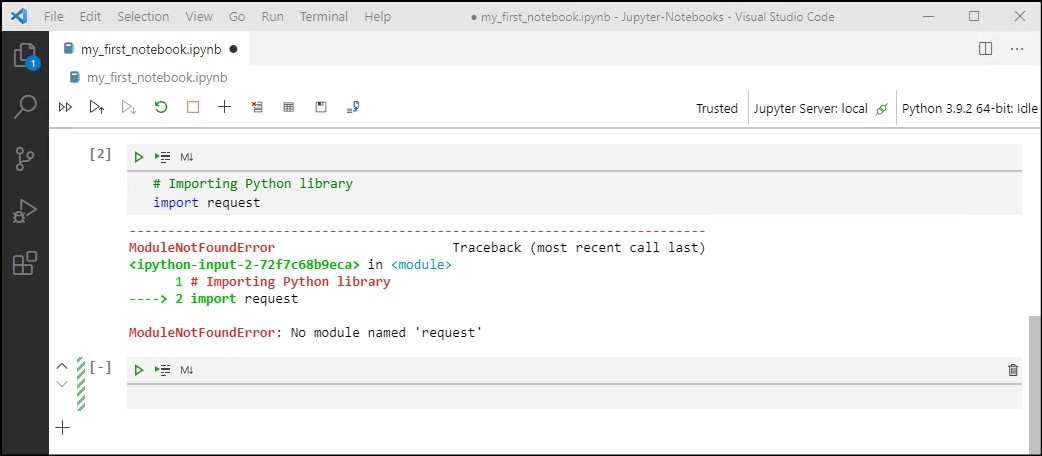
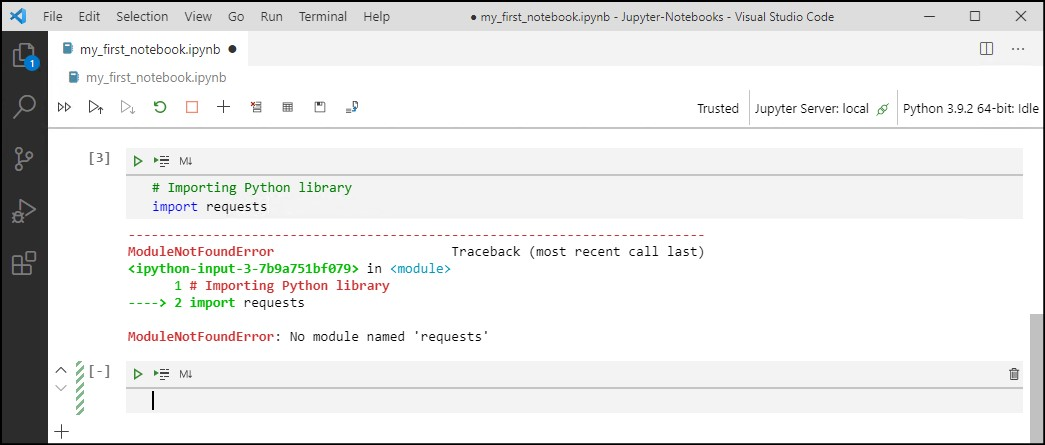
New Blog OTR and Prev Blogs Updates
- Installing Java
- Updates of images and inline code

diff --git a/docs/_posts/2020-12-04-installing_python_library_vscode.md b/docs/_posts/2020-12-04-installing_python_library_vscode.md
@@ -3,23 +3,24 @@ layout: post
 current: post
 cover:  assets/images/blog/2020-12-04_00_pip_cover.jpg
 navigation: True
-title: Installing a Python Library Using the Visual Studio Code Terminal - Windows
+title: Installing a Python Library in Visual Studio Code - Windows
 date: 2020-12-04 12:00:00
-tags: [vscode,python]
+tags: [jupyter-notebook,vscode,python]
 class: post-template
 subclass: 'post'
 author: jose
 ---
 
-In this quick blogpost, I will share the steps that you can follow in order to install a Python library using pip through the Visual Studio Code (VSCode) terminal on a Windows computer.
+In this quick blogpost, I will share the steps that you can follow in order to install a Python library using pip through either the **Terminal** or a **Jupyter Notebook** in Visual Studio Code (VSCode) on a Windows computer.
 
-## 0. Pre-requisites
+## Pre-requisites
 In order to complete the steps of this blogpost, you need to install the following in your windows computer:
 * **Visual Studio Code**: you can find the steps to install it [here](https://blog.openthreatresearch.com/installing_vscode_windows).
 * **Python Extension for Visual Studio Code**: you can find the steps to install it [here](https://blog.openthreatresearch.com/installing_python_extension_vscode).
 * **Python Interpreter**: you can find the steps to install it [here](https://blog.openthreatresearch.com/installing_python_interpreter).
 
-## 1. Accessing Visual Studio Code Terminal
+## Installing a Python Library Using the Terminal in VSCode
+### 1. Accessing Visual Studio Code Terminal
 * Open VSCode application
 
 ![](assets/images/blog/2020-12-04_01_pip__vscode_application.jpg)
@@ -32,7 +33,7 @@ In order to complete the steps of this blogpost, you need to install the followi
 
 ![](assets/images/blog/2020-12-04_03_pip_new_terminal_window.jpg)
 
-## 2. Importing a Python Library
+### 2. Importing a Python Library
 * Run ```pip --version``` to validate that pip is installed in your computer.
 
 ![](assets/images/blog/2020-12-04_04_pip_installation_validation.jpg)
@@ -41,5 +42,23 @@ In order to complete the steps of this blogpost, you need to install the followi
 * Run ```pip install pandas```
 
 ![](assets/images/blog/2020-12-04_05_pip_install_pandas.jpg)
+
+* Pandas library is now ready to be imported by any python application. You can repeat this process for any Python library.
+
+## Installing a Python Library Using a Jupyter Notebook in VSCode
+### 1. Creating a Jupyter Notebook in VSCode
+* Create a Jupyter Notebook following the steps of [My First Jupyter Notebook on Visual Studio Code (Python kernel)](https://blog.openthreatresearch.com/first_jupyter_notebook_vscode)
+
+![](assets/images/blog/2020-12-04_06_pip_vscode_jupyter_notebook.jpg)
+
+### 2. Importing a Python Library
+* Run ```!pip --version``` to validate that pip is installed in your computer.
+
+![](assets/images/blog/2020-12-04_07_pip_vscode_jupyter_notebook_pip_version.jpg)
+
+* Let us say that you want to install **Pandas** Python library.
+* Run ```!pip install pandas```
+
+![](assets/images/blog/2020-12-04_08_pip_vscode_jupyter_notebook_pip_install.jpg)
 
 * Pandas library is now ready to be imported by any python application. You can repeat this process for any Python library.

diff --git a/docs/_posts/2021-01-01-first_jupyter_notebook_vscode.md b/docs/_posts/2021-01-01-first_jupyter_notebook_vscode.md
@@ -93,6 +93,11 @@ In order to complete the steps of this blogpost, you need to install the followi
 
 ![](assets/images/blog/2021-01-01_16_notebook_to_markdown.jpg)
 
+```
+# This is my first Jupyter Notebook
+Thank you!
+```
+
 ![](assets/images/blog/2021-01-01_17_notebook_to_markdown_example.jpg)
 
 * You can change the content type of a cell back to **code** by clicking on the **Change to Code** buttom **{ }** (At the top left of each cell).
@@ -106,6 +111,17 @@ In order to complete the steps of this blogpost, you need to install the followi
 
 * After adding content to a **Code** cell, you can get the output of this type of cell just by clicking on the **Run Cell** button ▶ (At the top left of each cell) or by hitting **Shift + Enter** keys combination (Using either both options will add a new cell below).
 
+```
+# Importing Python library
+import pandas as pd
+
+# Initializing a Dictionary
+data = {'User': ['Cyb3rPandaH','Cyb3rCuy'], 'Country': ['Peru','United Sttes']}
+
+# Creating a Pandas Dataframe
+pd.DataFrame.from_dict(data)
+```
+
 ![](assets/images/blog/2021-01-01_20_notebook_code_cell_run.jpg)
 
 ![](assets/images/blog/2021-01-01_22_notebook_code_cell_run_example.jpg)
@@ -113,9 +129,14 @@ In order to complete the steps of this blogpost, you need to install the followi
 ## 4. Importing Non-Installed Python Libraries
 When trying to import a non-installed Python library, we will get an error similar to the one showed in the image below.
 
+```
+# Importing Python library
+import requests
+```
+
 ![](assets/images/blog/2021-01-01_23_notebook_code_cell_run_importing_library_error.jpg)
 
-You can find all the steps required to install a Python library using **pip** in a VSCode terminal [here](https://blog.openthreatresearch.com/installing_python_library_vscode). After completing these steps, you can try and run the code within the cell again.
+You can find all the steps required to install a Python library using **pip** in VSCode [here](https://blog.openthreatresearch.com/installing_python_library_vscode). After completing these steps, you can try and run the code within the cell again.
 
 
 ## References

diff --git a/docs/_posts/2020-12-01-installing_java.md b/docs/_posts/2020-12-01-installing_java.md
@@ -1,0 +1,51 @@
+---
+layout: post
+current: post
+cover:  assets/images/blog/2020-12-01_00_java_cover.jpg
+navigation: True
+title: Installing Java - Windows
+date: 2020-12-01 12:00:00
+tags: [java]
+class: post-template
+subclass: 'post'
+author: jose
+---
+
+In this blogpost, I will share the steps that you can follow in order to install Java (1.8.0_281) on a Windows computer using Firefox as web browser.
+
+## 1. Downloading Java Executable
+* Go to [Java](https://www.java.com/en/download/) website and click on **Agree and Start Free Download**..
+
+![](assets/images/blog/2020-12-01_01_java_download_website.jpg)
+
+* Select **Save File** and click on **OK**..
+
+![](assets/images/blog/2020-12-01_02_java_download_save_file.jpg)
+
+## 2. Running Java Executable
+* In your **Downloads** directory, right click on the Java executable and select **Open**.
+
+![](assets/images/blog/2020-12-01_03_java_open_executable.jpg)
+
+* Allow the app to make changes clicking on **Yes**.
+
+![](assets/images/blog/2020-12-01_04_java_allow_changes.jpg)
+
+## 3. Completing the Java Setup
+* Click on **Install**.
+
+![](assets/images/blog/2020-12-01_05_java_install.jpg)
+
+* Wait for the installation process to complete.
+
+![](assets/images/blog/2020-12-01_06_java_installation_process.jpg)
+
+* Click on **Close**.
+
+![](assets/images/blog/2020-12-01_07_java_successfully_installed.jpg)
+
+## 4. Validating Java Installation
+
+* Open a command prompt window and run ```java -version```.
+
+![](assets/images/blog/2020-12-01_08_java_successfully_installed_validation.jpg)

diff --git a/docs/_posts/2020-12-03-installing_python_interpreter.md b/docs/_posts/2020-12-03-installing_python_interpreter.md
@@ -19,11 +19,11 @@ In this quick blogpost, I will share the steps that you can follow in order to i
 
 ![](assets/images/blog/2020-12-01_01_python_interpreter_download.jpg)
 
-## 2. Running Python Executable
 * Click on **Save File**.
 
 ![](assets/images/blog/2020-12-01_02_python_interpreter_save_file.jpg)
 
+## 2. Running Python Executable
 * In your **Downloads** directory, right click on the Python executable and select **Open**.
 
 ![](assets/images/blog/2020-12-01_03_python_interpreter_open_executable.jpg)

diff --git a/docs/_posts/2020-12-01-installing_jekyll.md b/docs/_posts/2020-12-01-installing_jekyll.md
@@ -19,11 +19,11 @@ In this quick blogpost, I will share the steps that you can follow in order to i
 
 ![](assets/images/blog/2020-12-01_01_jekyll_ruby_download.jpg)
 
-## 2. Running Ruby + Devkit Executable
 * Click on **Save File**.
 
 ![](assets/images/blog/2020-12-01_02_jekyll_save_file.jpg)
 
+## 2. Running Ruby + Devkit Executable
 * In your **Downloads** directory, right click on the Ruby + Devkit executable and select **Open**.
 
 ![](assets/images/blog/2020-12-01_03_jekyll_open_file.jpg)

diff --git a/docs/_posts/2020-12-03-installing_vscode_windows.md b/docs/_posts/2020-12-03-installing_vscode_windows.md
@@ -19,11 +19,11 @@ In this quick blogpost, I will share the steps that you can follow in order to i
 
 ![](assets/images/blog/2020-12-01_01_download_vscode_windows.png)
 
-## 2. Running VSCode Executable
 * Click on **Save File**.
 
 ![](assets/images/blog/2020-12-01_02_saving_vscode_executable.png)
 
+## 2. Running VSCode Executable
 * In your **Downloads** directory, right click on the VSCode executable and select **Open**.
 
 ![](assets/images/blog/2020-12-01_03_open_vscode_executable.png)

diff --git a/docs/_posts/2020-12-02-installing_git.md b/docs/_posts/2020-12-02-installing_git.md
@@ -19,11 +19,11 @@ In this quick blogpost, I will share the steps that you can follow in order to i
 
 ![](assets/images/blog/2020-12-02_01_git_download_executable.jpg)
 
-## 2. Running Git Executable
 * Click on **Save File**.
 
 ![](assets/images/blog/2020-12-02_02_git_save_file.jpg)
 
+## 2. Running Git Executable
 * In your **Downloads** directory, right click on the Git executable and select **Open**.
 
 ![](assets/images/blog/2020-12-02_03_git_open_file.jpg)
